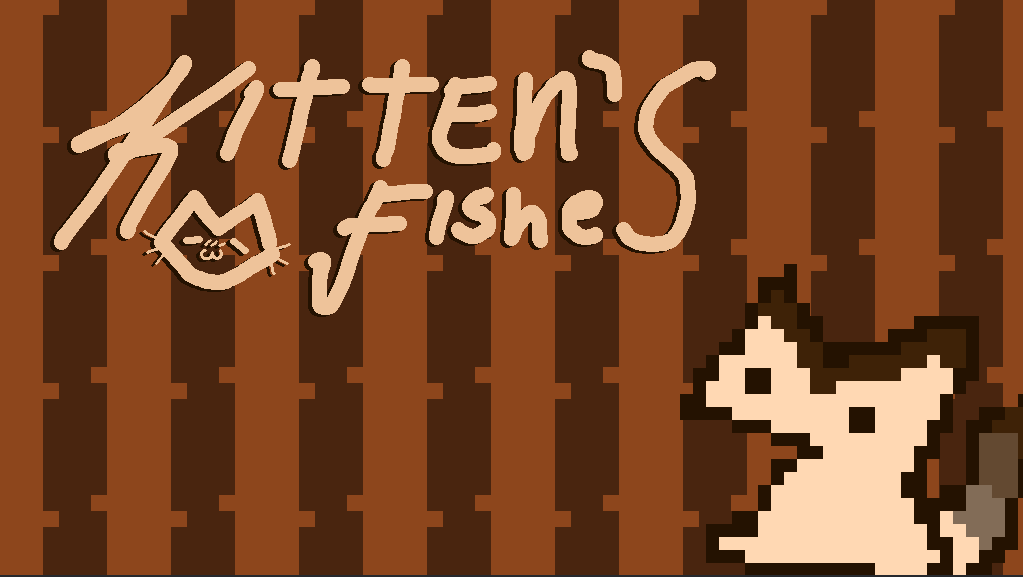
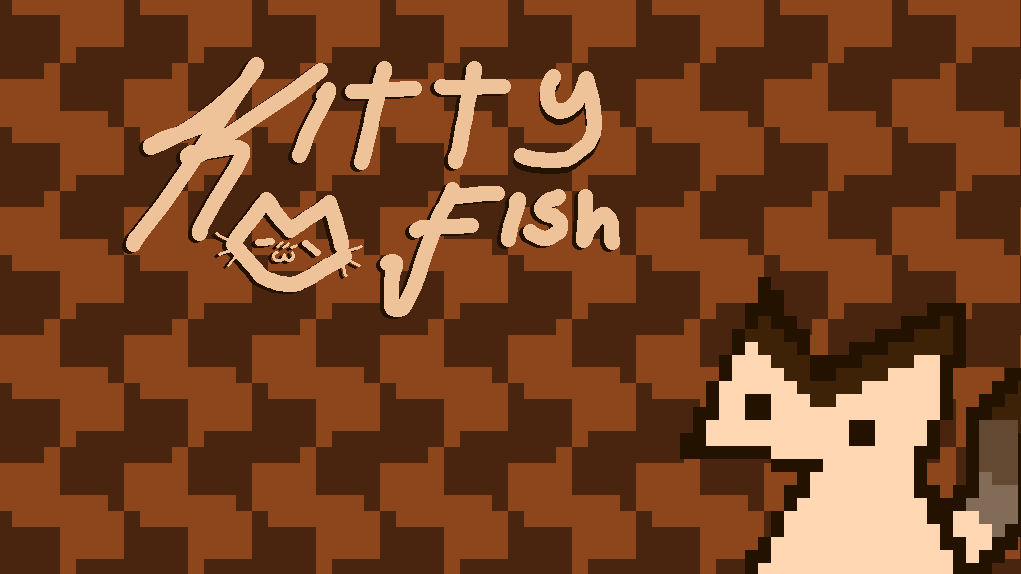
- Changed images with updated name  Kitty Fish

diff --git a/projects/kittyfish/index.html b/projects/kittyfish/index.html
@@ -146,10 +146,10 @@
 
                     <div class="orange-gallery">
 
-                        <a href="../../assets/screenshots-kf1.png"
+                        <a href="../../assets/screenshots-kf6.png"
                         data-pswp-width="1024"
                         data-pswp-height="576">
-                            <img src="../../assets/screenshots-kf1.png">
+                            <img src="../../assets/screenshots-kf6.png">
                         </a>
 
                         <a href="../../assets/screenshots-kf2.png"
